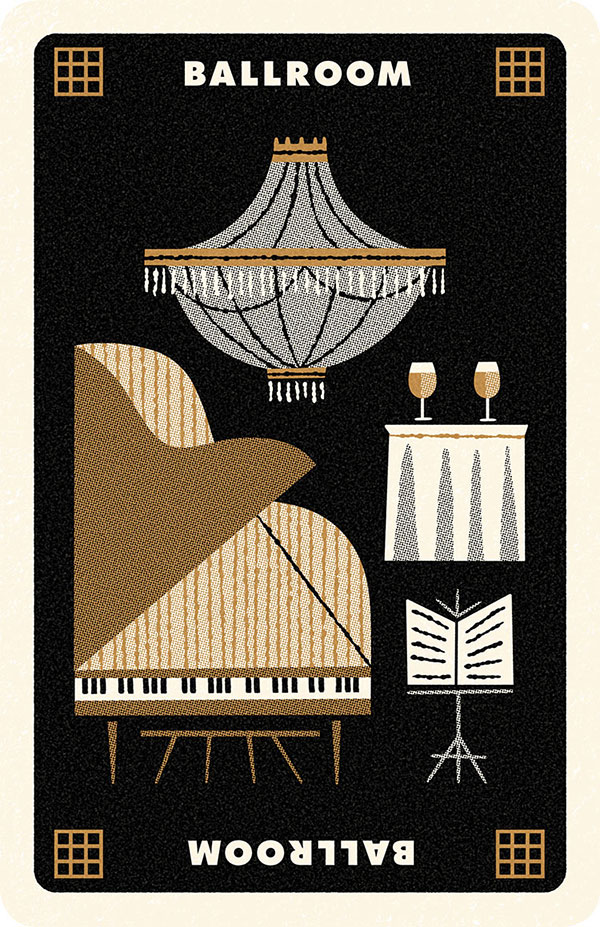
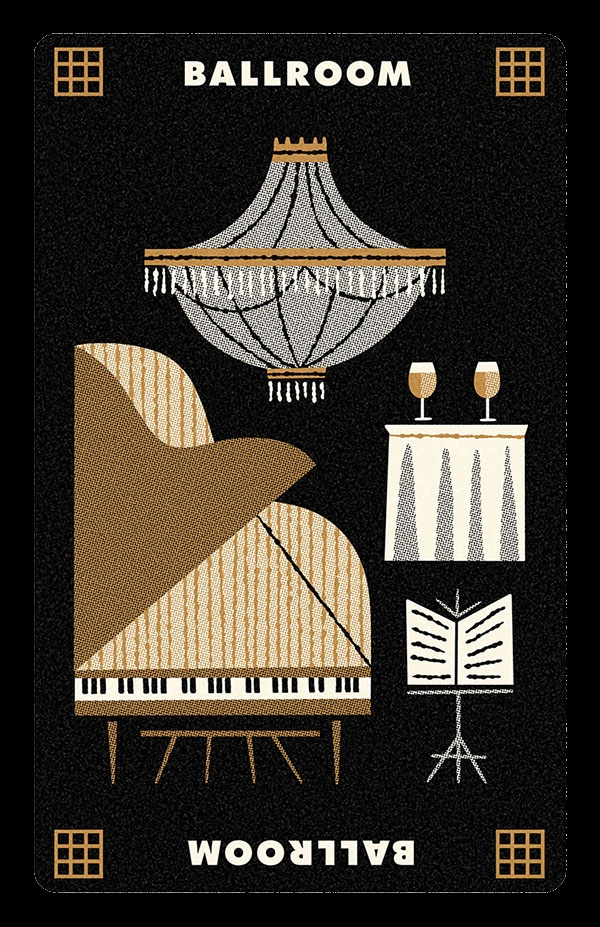
Added transparency to images, keybindings, and other small changes

diff --git a/src/Cluedo/GUI/GUI.java b/src/Cluedo/GUI/GUI.java
@@ -1,14 +1,13 @@
 package Cluedo.GUI;
 
 import Cluedo.Board;
-import Cluedo.Helpers.Position;
-import Cluedo.Moves.Move;
 import Cluedo.Util.GUIUtil;
 import Cluedo.Util.InputUtil;
 
 import javax.imageio.ImageIO;
 import javax.swing.*;
 import java.awt.*;
+import java.awt.event.ActionEvent;
 import java.awt.event.WindowEvent;
 import java.awt.event.WindowListener;
 import java.io.File;
@@ -25,7 +24,7 @@ public class GUI extends JFrame implements WindowListener {
     static {
         ASSETS = new HashMap<>();
         File assetDir = new File("Assets/cards");
-        File[] files = assetDir.listFiles(file -> !file.isDirectory() && file.getName().contains(".jpg"));
+        File[] files = assetDir.listFiles(file -> !file.isDirectory() && file.getName().contains(".png"));
 
         assert files != null;
         for(File file : files){
@@ -90,6 +89,8 @@ public class GUI extends JFrame implements WindowListener {
 
         initalizeConsole();
 
+        initalizeKeyBindings();
+
         this.getContentPane().add(mPanel);
 
         this.pack();
@@ -120,6 +121,20 @@ public class GUI extends JFrame implements WindowListener {
         canvas = new CluedoCanvas(board, this);
 
         mPanel.add(canvas, GUIUtil.makeConstraints(0, 0, 1, 1, GridBagConstraints.CENTER));
+    }
+
+    private void initalizeKeyBindings(){
+        InputMap inputMap = mPanel.getInputMap(JComponent.WHEN_IN_FOCUSED_WINDOW);
+        inputMap.put(KeyStroke.getKeyStroke("C"), "completeTurn");
+        ActionMap actionMap = mPanel.getActionMap();
+        actionMap.put("completeTurn", new AbstractAction() {
+            @Override
+            public void actionPerformed(ActionEvent actionEvent) {
+                board.completeTurn();
+                infoPanel.update();
+                console.println("Completed Turn.");
+            }
+        });
     }
 
     public InfoPanel getInfoPanel() {

diff --git a/src/Cluedo/GUI/InfoPanel.java b/src/Cluedo/GUI/InfoPanel.java
@@ -44,11 +44,17 @@ public class InfoPanel extends JPanel {
             Image img = GUI.ASSETS.get(type);
             jl.setSize(img.getWidth(null), img.getHeight(null));
             jl.setIcon(new ImageIcon(GUI.ASSETS.get(type)));
+            if(b){
+                jl.setBackground(Color.RED);
+                System.out.println(type);
+            }
             return jl;
         });
 
         list.setLayoutOrientation(JList.HORIZONTAL_WRAP);
         list.setVisibleRowCount(1);
+
+        list.setSelectionMode(ListSelectionModel.SINGLE_SELECTION);
 
         JScrollPane scrollPane = new JScrollPane(list, ScrollPaneConstants.VERTICAL_SCROLLBAR_NEVER, ScrollPaneConstants.HORIZONTAL_SCROLLBAR_ALWAYS);
         scrollPane.setPreferredSize(new Dimension(CluedoCanvas.WIDTH/2, 145));
@@ -69,10 +75,10 @@ public class InfoPanel extends JPanel {
 
         sidePanel.add(btnPanel, GUIUtil.makeConstraints(1, 0, 1, 2, GridBagConstraints.CENTER));
 
-        JButton completeBtn = new JButton("Complete Turn");
-        suggestBtn = new JButton("Suggest");
-        accuseBtn = new JButton("Accuse");
-        moveBtn = new JButton("Move");
+        JButton completeBtn = new JButton("Complete Turn (c)");
+        suggestBtn = new JButton("Suggest (s)");
+        accuseBtn = new JButton("Accuse (a)");
+        moveBtn = new JButton("Move (m)");
 
         completeBtn.setPreferredSize(new Dimension(150, 37));
         suggestBtn.setPreferredSize(new Dimension(150, 37));

diff --git a/src/Cluedo/GUI/CluedoCanvas.java b/src/Cluedo/GUI/CluedoCanvas.java
@@ -17,13 +17,15 @@ import com.sun.source.doctree.EndElementTree;
 import javax.imageio.ImageIO;
 import javax.swing.*;
 import java.awt.*;
+import java.awt.event.KeyEvent;
+import java.awt.event.KeyListener;
 import java.awt.event.MouseEvent;
 import java.awt.event.MouseListener;
 import java.awt.image.BufferedImage;
 import java.io.File;
 import java.io.IOException;
 
-public class CluedoCanvas extends JPanel implements MouseListener {
+public class CluedoCanvas extends JPanel implements MouseListener{
 
     public static final int WIDTH = 625;
     public static final int HEIGHT = 650;
@@ -50,7 +52,7 @@ public class CluedoCanvas extends JPanel implements MouseListener {
         this.gui = gui;
         this.addMouseListener(this);
         this.setToolTipText("");
-        ToolTipManager.sharedInstance().setInitialDelay(1000);
+        ToolTipManager.sharedInstance().setInitialDelay(500);
     }
 
     @Override
@@ -122,6 +124,7 @@ public class CluedoCanvas extends JPanel implements MouseListener {
             if(board.processTurn(new GUIMove(new Position(x, y), gui.getInfoPanel().getDiceRoll(), gui.getConsole()))){
                repaint();
                gui.getInfoPanel().update();
+               gui.getConsole().setInputConsumer(null);
             }
         }
     }

diff --git a/src/Cluedo/GUI/ConsolePanel.java b/src/Cluedo/GUI/ConsolePanel.java
@@ -34,9 +34,13 @@ public class ConsolePanel extends JPanel implements ActionListener {
         this.gui = gui;
 
         console = new JTextArea(5, 20);
-        console.setPreferredSize(new Dimension(250, 800));
+//        console.setPreferredSize(new Dimension(250, 800));
         console.setEditable(false);
-        this.add(console, BorderLayout.NORTH);
+
+        JScrollPane scrollPane = new JScrollPane(console);
+        scrollPane.setPreferredSize(new Dimension(250, 800));
+
+        this.add(scrollPane, BorderLayout.NORTH);
         input = new JTextField();
 
         this.add(input);
@@ -75,7 +79,7 @@ public class ConsolePanel extends JPanel implements ActionListener {
     }
 
     private void processMove(){
-        if(board.getState() != MOVE || board.getState() != SUGGEST_MOVE){
+        if(board.getState() != MOVE && board.getState() != SUGGEST_MOVE){
             println("Unable to move right now.");
             return;
         }
